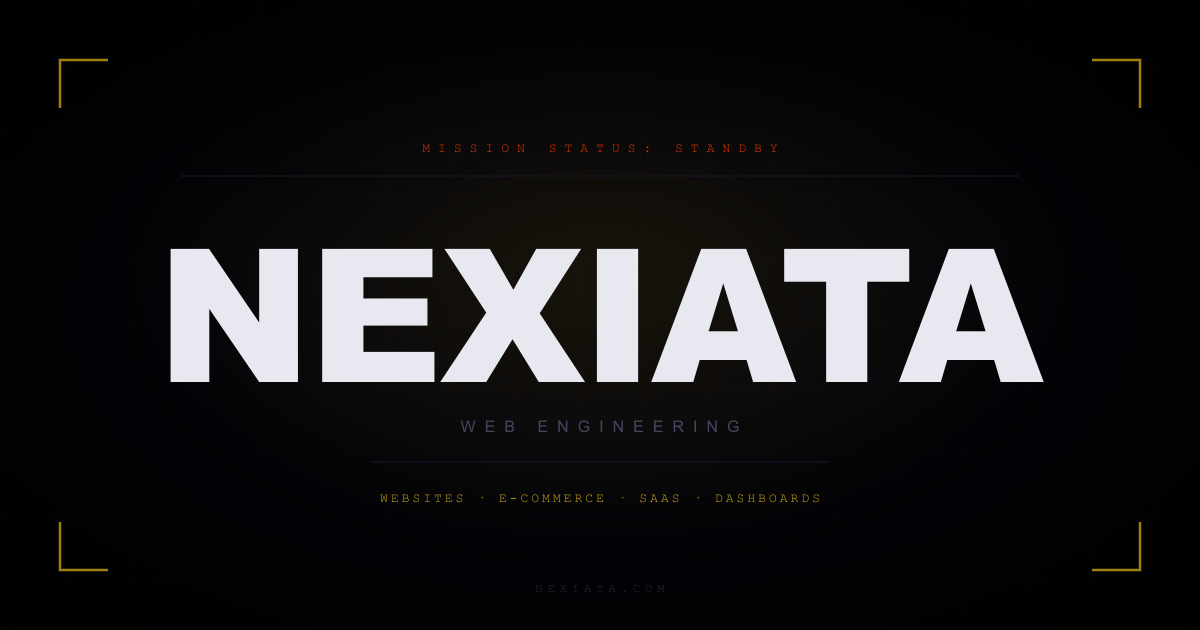
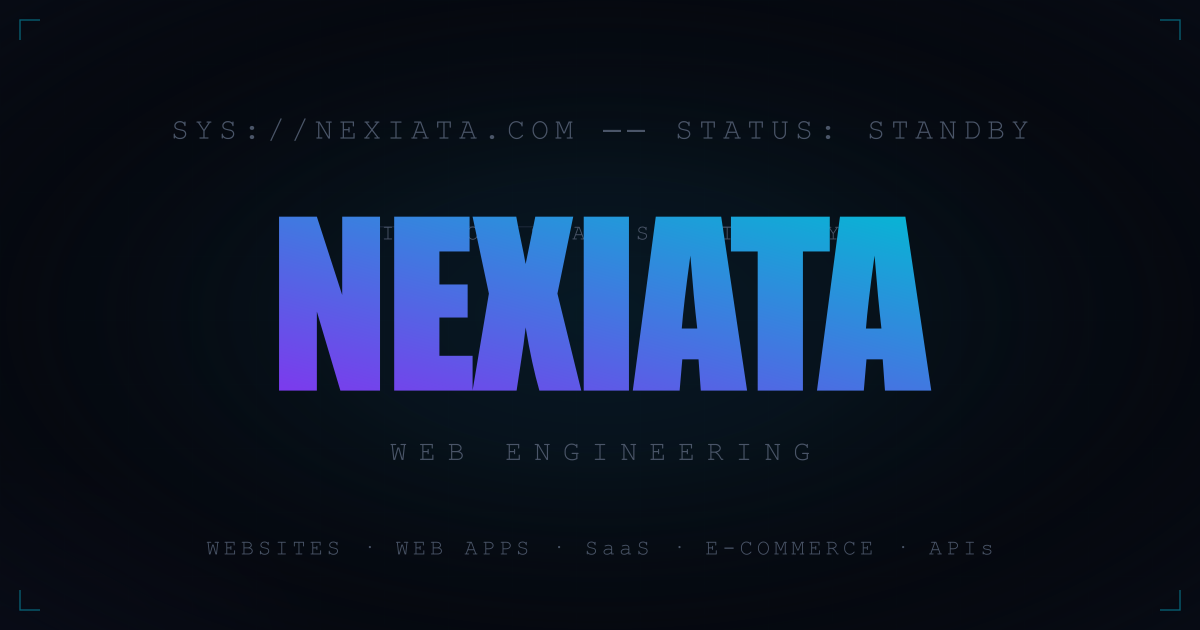
Rebrand site to blue/purple gradient theme (purple #7C3AED → cyan #06B6D4)
- Update all CSS variables: bg → dark navy, accent → cyan, accent-2 → purple, green → bright cyan
- Replace every hardcoded yellow/red rgba() value with new brand colors
- Regenerate og-image.png with new gradient palette
- Update favicon.svg: N lettermark with purple→cyan gradient fill, cyan HUD corners
- Update site.webmanifest theme_color to #06B6D4
- Add LinkedIn and Facebook social links to bottom bar
- Fix api/notify.js: thank-you email template updated to new brand colors (bg, borders, accents)
- Fix api/notify.js: await thank-you email fetch so Vercel doesn't freeze it (was fire-and-forget)

diff --git a/api/notify.js b/api/notify.js
@@ -4,18 +4,18 @@ const thankYouHtml = () => `<!DOCTYPE html>
   <meta charset="UTF-8">
   <meta name="viewport" content="width=device-width,initial-scale=1.0">
 </head>
-<body style="margin:0;padding:0;background:#04040A;">
-<table width="100%" cellpadding="0" cellspacing="0" style="background:#04040A;padding:40px 16px;">
+<body style="margin:0;padding:0;background:#070B14;">
+<table width="100%" cellpadding="0" cellspacing="0" style="background:#070B14;padding:40px 16px;">
   <tr>
     <td align="center">
-      <table width="100%" cellpadding="0" cellspacing="0" style="max-width:560px;background:#04040A;border:1px solid #18182A;">
+      <table width="100%" cellpadding="0" cellspacing="0" style="max-width:560px;background:#070B14;border:1px solid #1E293B;">
 
         <!-- TOP BAR -->
         <tr>
-          <td style="padding:14px 28px;border-bottom:1px solid #18182A;">
+          <td style="padding:14px 28px;border-bottom:1px solid #1E293B;">
             <table width="100%" cellpadding="0" cellspacing="0"><tr>
-              <td style="font-family:'Courier New',Courier,monospace;font-size:9px;color:#454560;letter-spacing:3px;text-transform:uppercase;">SYS://NEXIATA.COM</td>
-              <td align="right" style="font-family:'Courier New',Courier,monospace;font-size:9px;color:#454560;letter-spacing:2px;text-transform:uppercase;">STATUS: CONFIRMED</td>
+              <td style="font-family:'Courier New',Courier,monospace;font-size:9px;color:#4A5568;letter-spacing:3px;text-transform:uppercase;">SYS://NEXIATA.COM</td>
+              <td align="right" style="font-family:'Courier New',Courier,monospace;font-size:9px;color:#4A5568;letter-spacing:2px;text-transform:uppercase;">STATUS: CONFIRMED</td>
             </tr></table>
           </td>
         </tr>
@@ -23,35 +23,35 @@ const thankYouHtml = () => `<!DOCTYPE html>
         <!-- HERO -->
         <tr>
           <td align="center" style="padding:48px 28px 36px;">
-            <p style="font-family:'Courier New',Courier,monospace;font-size:11px;color:#FF3A00;letter-spacing:6px;text-transform:uppercase;margin:0 0 20px 0;">TRANSMISSION RECEIVED</p>
+            <p style="font-family:'Courier New',Courier,monospace;font-size:11px;color:#7C3AED;letter-spacing:6px;text-transform:uppercase;margin:0 0 20px 0;">TRANSMISSION RECEIVED</p>
             <h1 style="font-family:'Arial Black',Impact,Arial,sans-serif;font-size:64px;font-weight:900;color:#E8E8F0;letter-spacing:-2px;margin:0;text-transform:uppercase;line-height:1;">NEXIATA</h1>
-            <p style="font-family:'Courier New',Courier,monospace;font-size:10px;color:#454560;letter-spacing:6px;text-transform:uppercase;margin:12px 0 0 0;">WEB ENGINEERING</p>
+            <p style="font-family:'Courier New',Courier,monospace;font-size:10px;color:#4A5568;letter-spacing:6px;text-transform:uppercase;margin:12px 0 0 0;">WEB ENGINEERING</p>
           </td>
         </tr>
 
         <!-- DIVIDER -->
-        <tr><td style="padding:0 28px;"><div style="height:1px;background:#18182A;"></div></td></tr>
+        <tr><td style="padding:0 28px;"><div style="height:1px;background:#1E293B;"></div></td></tr>
 
         <!-- MESSAGE -->
         <tr>
           <td style="padding:36px 28px 28px;">
-            <p style="font-family:'Courier New',Courier,monospace;font-size:9px;color:#F5C518;letter-spacing:3px;text-transform:uppercase;margin:0 0 18px 0;border:1px solid rgba(245,197,24,0.3);display:inline-block;padding:4px 10px;">&#9658;&nbsp; MISSION UPDATE</p>
+            <p style="font-family:'Courier New',Courier,monospace;font-size:9px;color:#06B6D4;letter-spacing:3px;text-transform:uppercase;margin:0 0 18px 0;border:1px solid rgba(6,182,212,0.3);display:inline-block;padding:4px 10px;">&#9658;&nbsp; MISSION UPDATE</p>
             <h2 style="font-family:'Arial Black',Impact,Arial,sans-serif;font-size:30px;font-weight:900;color:#E8E8F0;margin:0 0 14px 0;text-transform:uppercase;line-height:1.15;">YOU'RE ON THE LIST.</h2>
-            <p style="font-family:Arial,Helvetica,sans-serif;font-size:14px;color:#9898B0;line-height:1.85;margin:0 0 28px 0;">
+            <p style="font-family:Arial,Helvetica,sans-serif;font-size:14px;color:#8B9CB0;line-height:1.85;margin:0 0 28px 0;">
               Signal logged. When NEXIATA goes live on
-              <span style="color:#F5C518;font-weight:600;">August 1, 2026</span>,
+              <span style="color:#06B6D4;font-weight:600;">August 1, 2026</span>,
               you'll be the first to know. We're building something sharp &mdash; stay tuned.
             </p>
 
             <!-- LAUNCH DATE BOX -->
-            <table cellpadding="0" cellspacing="0" style="background:#0F0F1A;border:1px solid #18182A;width:100%;margin-bottom:4px;">
+            <table cellpadding="0" cellspacing="0" style="background:#111827;border:1px solid #1E293B;width:100%;margin-bottom:4px;">
               <tr>
                 <td style="padding:18px 24px;">
-                  <span style="font-family:'Courier New',Courier,monospace;font-size:9px;color:#454560;letter-spacing:3px;text-transform:uppercase;display:block;margin-bottom:8px;">LAUNCH DATE</span>
-                  <span style="font-family:'Arial Black',Impact,Arial,sans-serif;font-size:26px;font-weight:900;color:#F5C518;letter-spacing:1px;">AUGUST 1, 2026</span>
+                  <span style="font-family:'Courier New',Courier,monospace;font-size:9px;color:#4A5568;letter-spacing:3px;text-transform:uppercase;display:block;margin-bottom:8px;">LAUNCH DATE</span>
+                  <span style="font-family:'Arial Black',Impact,Arial,sans-serif;font-size:26px;font-weight:900;color:#06B6D4;letter-spacing:1px;">AUGUST 1, 2026</span>
                 </td>
               </tr>
-              <tr><td style="height:2px;background:#F5C518;opacity:0.7;"></td></tr>
+              <tr><td style="height:2px;background:linear-gradient(90deg,#7C3AED,#06B6D4);"></td></tr>
             </table>
           </td>
         </tr>
@@ -59,37 +59,37 @@ const thankYouHtml = () => `<!DOCTYPE html>
         <!-- SERVICES PREVIEW -->
         <tr>
           <td style="padding:0 28px 32px;">
-            <div style="height:1px;background:#18182A;margin-bottom:24px;"></div>
-            <p style="font-family:'Courier New',Courier,monospace;font-size:9px;color:#F5C518;letter-spacing:3px;text-transform:uppercase;margin:0 0 16px 0;border:1px solid rgba(245,197,24,0.3);display:inline-block;padding:4px 10px;">WHAT WE BUILD</p>
+            <div style="height:1px;background:#1E293B;margin-bottom:24px;"></div>
+            <p style="font-family:'Courier New',Courier,monospace;font-size:9px;color:#06B6D4;letter-spacing:3px;text-transform:uppercase;margin:0 0 16px 0;border:1px solid rgba(6,182,212,0.3);display:inline-block;padding:4px 10px;">WHAT WE BUILD</p>
             <table width="100%" cellpadding="0" cellspacing="0">
               <tr>
                 <td width="50%" style="padding:5px 0;">
-                  <span style="font-family:'Courier New',Courier,monospace;font-size:10px;color:#454560;">01</span>
-                  <span style="font-family:Arial,sans-serif;font-size:12px;color:#9898B0;padding-left:10px;">Business Websites</span>
+                  <span style="font-family:'Courier New',Courier,monospace;font-size:10px;color:#4A5568;">01</span>
+                  <span style="font-family:Arial,sans-serif;font-size:12px;color:#8B9CB0;padding-left:10px;">Business Websites</span>
                 </td>
                 <td width="50%" style="padding:5px 0;">
-                  <span style="font-family:'Courier New',Courier,monospace;font-size:10px;color:#454560;">02</span>
-                  <span style="font-family:Arial,sans-serif;font-size:12px;color:#9898B0;padding-left:10px;">E-commerce Stores</span>
-                </td>
-              </tr>
-              <tr>
-                <td width="50%" style="padding:5px 0;">
-                  <span style="font-family:'Courier New',Courier,monospace;font-size:10px;color:#454560;">03</span>
-                  <span style="font-family:Arial,sans-serif;font-size:12px;color:#9898B0;padding-left:10px;">SaaS Applications</span>
-                </td>
-                <td width="50%" style="padding:5px 0;">
-                  <span style="font-family:'Courier New',Courier,monospace;font-size:10px;color:#454560;">04</span>
-                  <span style="font-family:Arial,sans-serif;font-size:12px;color:#9898B0;padding-left:10px;">Admin Dashboards</span>
+                  <span style="font-family:'Courier New',Courier,monospace;font-size:10px;color:#4A5568;">02</span>
+                  <span style="font-family:Arial,sans-serif;font-size:12px;color:#8B9CB0;padding-left:10px;">E-commerce Stores</span>
                 </td>
               </tr>
               <tr>
                 <td width="50%" style="padding:5px 0;">
-                  <span style="font-family:'Courier New',Courier,monospace;font-size:10px;color:#454560;">05</span>
-                  <span style="font-family:Arial,sans-serif;font-size:12px;color:#9898B0;padding-left:10px;">API Integration</span>
+                  <span style="font-family:'Courier New',Courier,monospace;font-size:10px;color:#4A5568;">03</span>
+                  <span style="font-family:Arial,sans-serif;font-size:12px;color:#8B9CB0;padding-left:10px;">SaaS Applications</span>
                 </td>
                 <td width="50%" style="padding:5px 0;">
-                  <span style="font-family:'Courier New',Courier,monospace;font-size:10px;color:#454560;">06</span>
-                  <span style="font-family:Arial,sans-serif;font-size:12px;color:#9898B0;padding-left:10px;">Performance Optimization</span>
+                  <span style="font-family:'Courier New',Courier,monospace;font-size:10px;color:#4A5568;">04</span>
+                  <span style="font-family:Arial,sans-serif;font-size:12px;color:#8B9CB0;padding-left:10px;">Admin Dashboards</span>
+                </td>
+              </tr>
+              <tr>
+                <td width="50%" style="padding:5px 0;">
+                  <span style="font-family:'Courier New',Courier,monospace;font-size:10px;color:#4A5568;">05</span>
+                  <span style="font-family:Arial,sans-serif;font-size:12px;color:#8B9CB0;padding-left:10px;">API Integration</span>
+                </td>
+                <td width="50%" style="padding:5px 0;">
+                  <span style="font-family:'Courier New',Courier,monospace;font-size:10px;color:#4A5568;">06</span>
+                  <span style="font-family:Arial,sans-serif;font-size:12px;color:#8B9CB0;padding-left:10px;">Performance Optimization</span>
                 </td>
               </tr>
             </table>
@@ -98,10 +98,10 @@ const thankYouHtml = () => `<!DOCTYPE html>
 
         <!-- FOOTER -->
         <tr>
-          <td style="padding:16px 28px;border-top:1px solid #18182A;">
+          <td style="padding:16px 28px;border-top:1px solid #1E293B;">
             <table width="100%" cellpadding="0" cellspacing="0"><tr>
-              <td style="font-family:'Courier New',Courier,monospace;font-size:9px;color:#454560;letter-spacing:2px;text-transform:uppercase;">&#169; 2026 NEXIATA &middot; ALL RIGHTS RESERVED</td>
-              <td align="right"><a href="https://nexiata.com" style="font-family:'Courier New',Courier,monospace;font-size:9px;color:#454560;letter-spacing:2px;text-transform:uppercase;text-decoration:none;">NEXIATA.COM</a></td>
+              <td style="font-family:'Courier New',Courier,monospace;font-size:9px;color:#4A5568;letter-spacing:2px;text-transform:uppercase;">&#169; 2026 NEXIATA &middot; ALL RIGHTS RESERVED</td>
+              <td align="right"><a href="https://nexiata.com" style="font-family:'Courier New',Courier,monospace;font-size:9px;color:#4A5568;letter-spacing:2px;text-transform:uppercase;text-decoration:none;">NEXIATA.COM</a></td>
             </tr></table>
           </td>
         </tr>

diff --git a/index.html b/index.html
@@ -35,7 +35,7 @@
   <!-- Favicon & PWA -->
   <link rel="icon" type="image/svg+xml" href="/favicon.svg">
   <link rel="manifest" href="/site.webmanifest">
-  <meta name="theme-color" content="#F5C518">
+  <meta name="theme-color" content="#06B6D4">
   <meta name="mobile-web-app-capable" content="yes">
   <meta name="apple-mobile-web-app-capable" content="yes">
   <meta name="apple-mobile-web-app-title" content="NEXIATA">
@@ -48,15 +48,15 @@
 
   <style>
     :root {
-      --bg:        #04040A;
-      --bg-2:      #0B0B14;
-      --surface:   #0F0F1A;
-      --accent:    #F5C518;
-      --accent-2:  #FF3A00;
-      --green:     #00FF94;
+      --bg:        #070B14;
+      --bg-2:      #0D1322;
+      --surface:   #111827;
+      --accent:    #06B6D4;
+      --accent-2:  #7C3AED;
+      --green:     #00E5FF;
       --text:      #E8E8F0;
-      --text-dim:  #454560;
-      --border:    #18182A;
+      --text-dim:  #4A5568;
+      --border:    #1E293B;
     }
 
     *, *::before, *::after { margin: 0; padding: 0; box-sizing: border-box; }
@@ -90,8 +90,8 @@
     .grid-bg {
       position: fixed; inset: 0;
       background-image:
-        linear-gradient(rgba(245,197,24,0.025) 1px, transparent 1px),
-        linear-gradient(90deg, rgba(245,197,24,0.025) 1px, transparent 1px);
+        linear-gradient(rgba(6,182,212,0.025) 1px, transparent 1px),
+        linear-gradient(90deg, rgba(6,182,212,0.025) 1px, transparent 1px);
       background-size: 64px 64px;
       pointer-events: none;
       z-index: 0;
@@ -111,7 +111,7 @@
       top: 50%; left: 50%;
       transform: translate(-50%,-50%);
       width: 700px; height: 400px;
-      background: radial-gradient(ellipse, rgba(245,197,24,0.05) 0%, transparent 70%);
+      background: radial-gradient(ellipse, rgba(6,182,212,0.06) 0%, transparent 70%);
       pointer-events: none;
       z-index: 1;
       animation: breathe 5s ease-in-out infinite;
@@ -121,7 +121,7 @@
       position: fixed;
       top: 80%; left: 20%;
       width: 400px; height: 400px;
-      background: radial-gradient(ellipse, rgba(255,58,0,0.04) 0%, transparent 70%);
+      background: radial-gradient(ellipse, rgba(124,58,237,0.05) 0%, transparent 70%);
       pointer-events: none;
       z-index: 1;
       animation: breathe 7s ease-in-out infinite reverse;
@@ -151,7 +151,7 @@
       letter-spacing: 14px;
       text-indent: 14px;
       color: var(--accent);
-      text-shadow: 0 0 60px rgba(245,197,24,0.6), 0 0 120px rgba(245,197,24,0.2);
+      text-shadow: 0 0 60px rgba(6,182,212,0.6), 0 0 120px rgba(6,182,212,0.2);
     }
 
     .boot-lines {
@@ -187,7 +187,7 @@
       position: absolute; top: 0; left: 0;
       height: 100%;
       background: var(--accent);
-      box-shadow: 0 0 12px var(--accent), 0 0 30px rgba(245,197,24,0.4);
+      box-shadow: 0 0 12px var(--accent), 0 0 30px rgba(6,182,212,0.4);
       width: 0%;
       transition: width 2.2s cubic-bezier(0.4, 0, 0.2, 1);
     }
@@ -400,7 +400,7 @@
       background: var(--surface);
       border: 1px solid var(--border);
       padding: 10px 14px 8px;
-      text-shadow: 0 0 40px rgba(245,197,24,0.5);
+      text-shadow: 0 0 40px rgba(6,182,212,0.5);
       position: relative;
       overflow: hidden;
     }
@@ -483,7 +483,7 @@
     }
 
     .notify-input::placeholder { color: var(--text-dim); }
-    .notify-input:focus { border-color: rgba(245,197,24,0.4); }
+    .notify-input:focus { border-color: rgba(6,182,212,0.4); }
 
     .notify-btn {
       background: var(--accent);
@@ -500,7 +500,7 @@
       white-space: nowrap;
     }
 
-    .notify-btn:hover  { background: #e8b800; }
+    .notify-btn:hover  { background: #05a0ba; }
     .notify-btn:active { transform: scale(0.98); }
 
     .notify-msg {
@@ -532,7 +532,7 @@
       color: var(--accent);
       letter-spacing: 3px;
       text-transform: uppercase;
-      border: 1px solid rgba(245,197,24,0.3);
+      border: 1px solid rgba(6,182,212,0.3);
       padding: 5px 12px;
       white-space: nowrap;
     }
@@ -687,7 +687,7 @@
       color: var(--accent);
       letter-spacing: 4px;
       text-transform: uppercase;
-      border-left: 2px solid rgba(245,197,24,0.45);
+      border-left: 2px solid rgba(6,182,212,0.45);
     }
 
     /* ─── FEATURES ─── */
@@ -942,7 +942,8 @@
       <span>© 2026 NEXIATA · ALL RIGHTS RESERVED</span>
       <div class="bot-links">
         <a href="mailto:[email redacted]">[email redacted]</a>
-        <span>nexiata.com</span>
+        <a href="https://www.linkedin.com/company/nexiata-solutions" target="_blank" rel="noopener">LinkedIn</a>
+        <a href="https://www.facebook.com/profile.php?id=61589280395246" target="_blank" rel="noopener">Facebook</a>
       </div>
     </div>
 